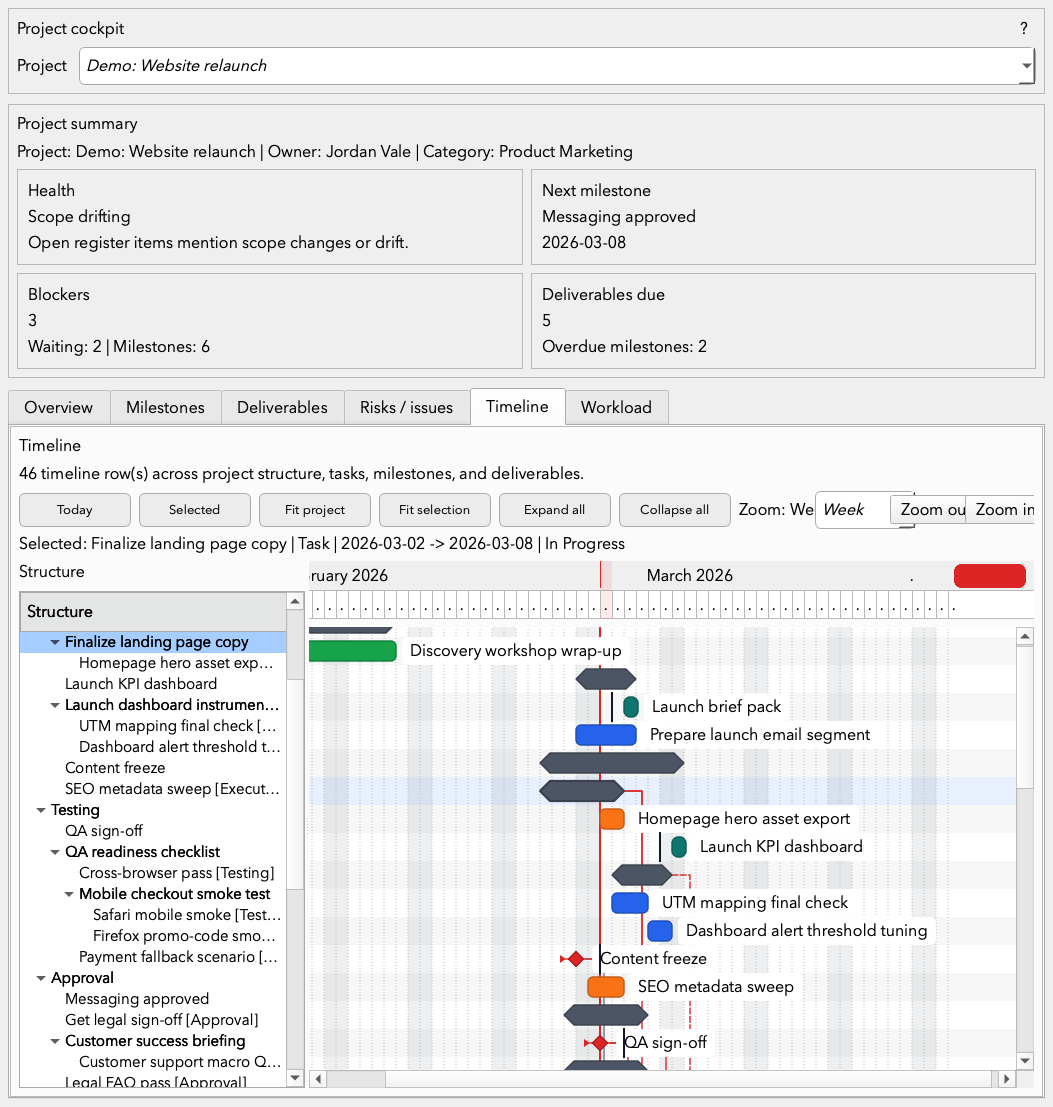
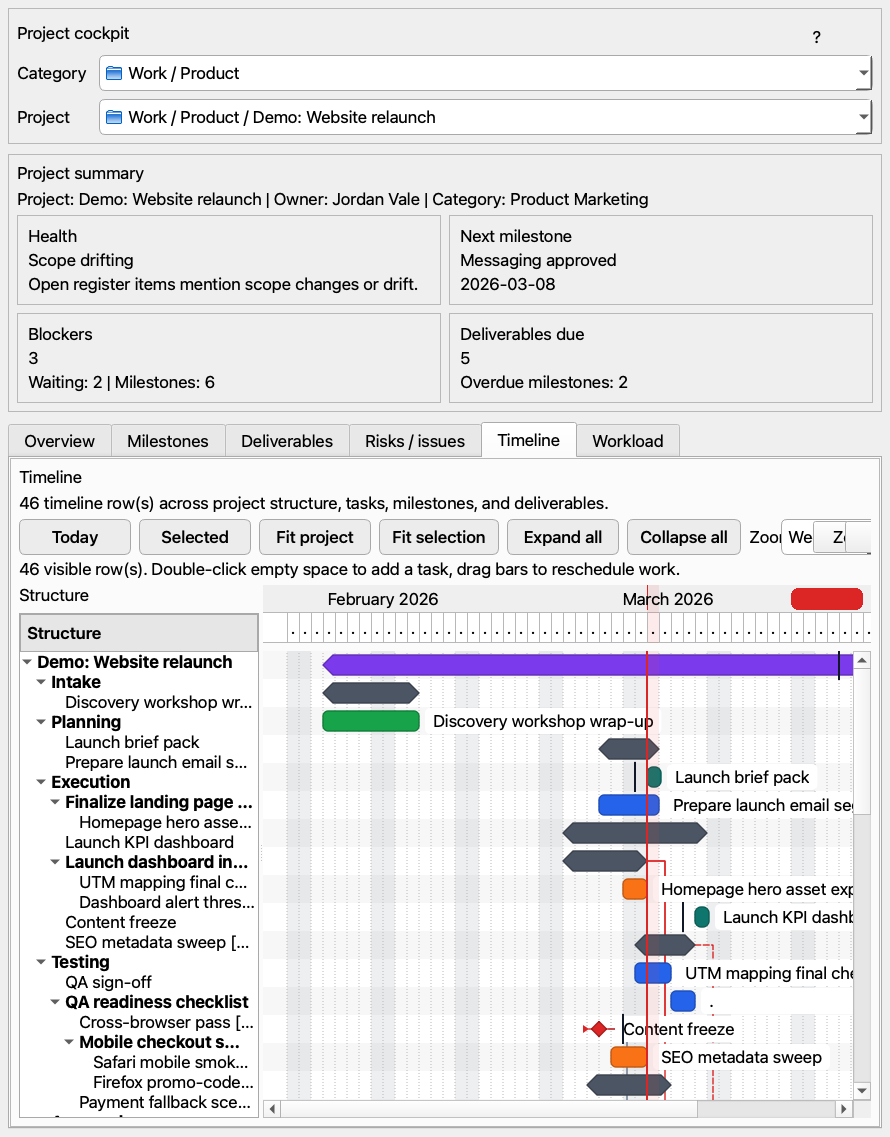
Refresh README screenshots for current task tree UI

Changed region(s): [[0.0, 0.0, 1.0, 0.9828]]

diff --git a/scripts/generate_release_screenshots.py b/scripts/generate_release_screenshots.py
@@ -67,6 +67,22 @@ def _save_widget(widget, path: Path) -> None:
     widget.grab().save(str(path))
 
 
+def _prepare_main_workspace_capture(window: MainWindow) -> None:
+    window._set_task_table_floating(False, show_after=True)
+    window._set_tree_visible(True, show_message=False)
+    window.controls_dock.show()
+    window.details_dock.hide()
+    window.project_dock.hide()
+    window.relationships_dock.hide()
+    window.review_dock.hide()
+    window.analytics_dock.hide()
+    window.calendar_dock.hide()
+    window.focus_dock.hide()
+    window.resize(1580, 980)
+    window.view.setColumnWidth(0, 520)
+    window.view.setColumnWidth(1, 150)
+
+
 def main() -> int:
     os.environ.setdefault("QT_QPA_PLATFORM", "offscreen")
 
@@ -83,11 +99,14 @@ def main() -> int:
         window.show()
         app.processEvents()
 
+        _prepare_main_workspace_capture(window)
         _focus_description(window, "Finalize landing page copy")
         app.processEvents()
         _save_widget(window, out_dir / "main-workspace.png")
 
         _focus_description(window, LAUNCH_PROJECT_NAME)
+        window.details_dock.show()
+        window.project_dock.show()
         window.project_panel.tabs.setCurrentIndex(4)
         app.processEvents()
         _save_widget(window.project_panel, out_dir / "project-cockpit-timeline.png")

diff --git a/README.md b/README.md
@@ -31,6 +31,7 @@ Gridoryn is not for:
 
 ### Core work management
 - Hierarchical task tree with parent/child work, drag-and-drop ordering, archive/restore, and undo/redo
+- Compact first-cell status strip in the task tree keeps task state scanable without repaint-heavy full-row fills
 - Category folders for grouping top-level tasks and projects without turning the folder itself into a task
 - Built-in perspectives: All, Today, Upcoming, Inbox, Someday, and Completed / Archive
 - Search, filters, saved views, and dense keyboard-first navigation
@@ -65,6 +66,8 @@ Gridoryn is not for:
 ### Main workspace
 
 ![Main workspace](docs/screenshots/main-workspace.png)
+
+The main workspace screenshot reflects the current task-tree rendering: task state is carried by a compact leading strip in the first visible cell, while the rest of the row stays neutral for readability and lower repaint cost.
 
 ### Project cockpit timeline
 
